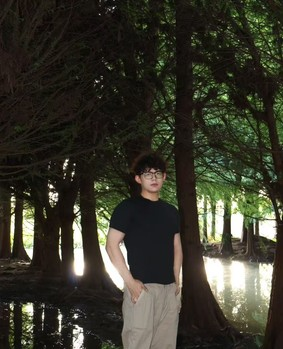
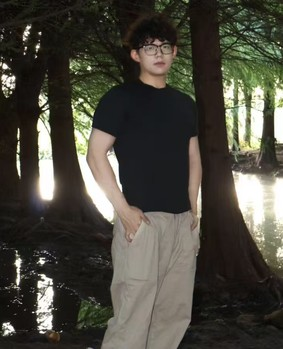
Update Wulinxuan photo and Zhaohanjie name

diff --git a/_pages/members/students.html b/_pages/members/students.html
@@ -382,14 +382,14 @@ description: A member list sorted by name.
 			</div>
 		</div>
 
-		<!--ZHAO Haojie-->
+		<!--ZHAO Zhaohanjie-->
 		<div class="col-md-2">
 			<div class="thumbnail">
 				<img
-					alt="ZHAO Haojie"
+					alt="ZHAO Zhaohanjie"
 					src="/assets/images/students/PHD.Zhaohanjie.jpg" class="img-responsive">
 				<div class="caption">
-					<strong>Haojie Zhao</strong> <br>
+					<strong>Zhaohanjie Zhao</strong> <br>
 					<hr style="margin-top:-1px;margin-bottom:1px; height:1px;border:none;border-top:1px dotted #a1a8a4;" />				
 					LLM Security <br>
 				</div>
